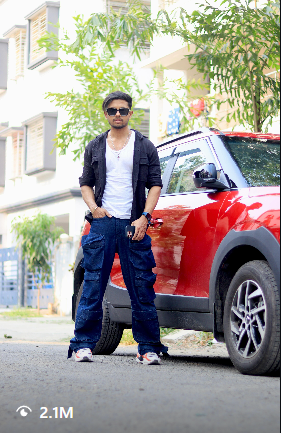
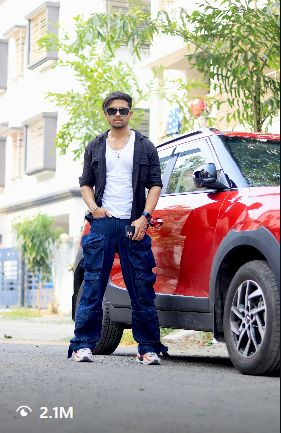
perf: accessibility ARIA labels, contrast upgrades, and cover image weight optimization

diff --git a/portfolio/src/components/Contact.tsx b/portfolio/src/components/Contact.tsx
@@ -22,7 +22,7 @@ export default function Contact() {
                             <h3 className="text-3xl md:text-5xl font-light leading-snug">
                                 Ready to bring your <span className="font-semibold text-transparent bg-clip-text bg-gradient-to-r from-blue-400 to-emerald-400">ideas to life?</span>
                             </h3>
-                            <p className="text-xl text-white/50 font-light max-w-lg">
+                            <p className="text-xl text-neutral-100 font-light max-w-lg">
                                 Whether you have a specific project in mind or just want to explore possibilities, I'm always open to discussing new opportunities.
                             </p>
 
@@ -37,13 +37,31 @@ export default function Contact() {
                             </div>
 
                             <div className="pt-16 flex items-center space-x-6">
-                                <a href="https://www.linkedin.com/in/saptarshi-dutta-storytelling/" target="_blank" rel="noopener noreferrer" className="p-4 rounded-full bg-white/5 hover:bg-white/10 text-white/70 hover:text-white transition-all transform hover:scale-110">
+                                <a
+                                    href="https://www.linkedin.com/in/saptarshi-dutta-storytelling/"
+                                    target="_blank"
+                                    rel="noopener noreferrer"
+                                    aria-label="Visit Saptarshi's professional LinkedIn profile portfolio"
+                                    className="p-4 rounded-full bg-white/5 hover:bg-white/10 text-white hover:text-emerald-400 transition-all transform hover:scale-110"
+                                >
                                     <Linkedin className="w-6 h-6" />
                                 </a>
-                                <a href="https://www.instagram.com/fx_zicozzz" target="_blank" rel="noopener noreferrer" className="p-4 rounded-full bg-white/5 hover:bg-white/10 text-white/70 hover:text-white transition-all transform hover:scale-110">
+                                <a
+                                    href="https://www.instagram.com/fx_zicozzz"
+                                    target="_blank"
+                                    rel="noopener noreferrer"
+                                    aria-label="Visit Saptarshi's Instagram profile"
+                                    className="p-4 rounded-full bg-white/5 hover:bg-white/10 text-white hover:text-emerald-400 transition-all transform hover:scale-110"
+                                >
                                     <Instagram className="w-6 h-6" />
                                 </a>
-                                <a href="/Saptarshi_Dutta_Resume_2026.pdf" target="_blank" rel="noopener noreferrer" className="p-4 rounded-full bg-white/5 hover:bg-white/10 text-white/70 hover:text-white transition-all transform hover:scale-110">
+                                <a
+                                    href="/Saptarshi_Dutta_Resume_2026.pdf"
+                                    target="_blank"
+                                    rel="noopener noreferrer"
+                                    aria-label="View Saptarshi's Resume PDF"
+                                    className="p-4 rounded-full bg-white/5 hover:bg-white/10 text-white hover:text-emerald-400 transition-all transform hover:scale-110"
+                                >
                                     <FileText className="w-6 h-6" />
                                 </a>
                             </div>

diff --git a/portfolio/src/components/BrandLandingPage.tsx b/portfolio/src/components/BrandLandingPage.tsx
@@ -92,6 +92,8 @@ function VideoProofCard({ card, idx }: { card: typeof PROOF_CARDS[0], idx: numbe
                 loop
                 playsInline={true}
                 disablePictureInPicture
+                width={260}
+                height={462}
                 className="absolute inset-0 w-full h-full object-cover opacity-60 group-hover:opacity-85 transition-opacity duration-500 z-0 pointer-events-none"
             />
             {/* Dark Overlay Gradient */}
@@ -100,6 +102,7 @@ function VideoProofCard({ card, idx }: { card: typeof PROOF_CARDS[0], idx: numbe
             {/* Mute button on top-right */}
             <button
                 onClick={toggleMute}
+                aria-label="Toggle video audio playback"
                 className="absolute top-4 right-4 z-20 p-2 rounded-full bg-black/40 hover:bg-black/70 border border-white/10 text-white transition-all hover:scale-105"
             >
                 {isMuted ? <VolumeX className="w-3.5 h-3.5 text-white/70" /> : <Volume2 className="w-3.5 h-3.5 text-emerald-400" />}
@@ -198,7 +201,7 @@ export default function BrandLandingPage() {
                         initial={{ opacity: 0, y: 20 }}
                         animate={{ opacity: 1, y: 0 }}
                         transition={{ duration: 0.8, delay: 0.2 }}
-                        className="text-lg md:text-2xl text-zinc-400 font-light max-w-3xl mx-auto leading-relaxed break-words"
+                        className="text-lg md:text-2xl text-zinc-100 font-light max-w-3xl mx-auto leading-relaxed break-words"
                     >
                         Orchestrating 5.2M+ organic views for national brands by bridging consumer behavioral psychology with high-velocity internal production.
                     </motion.p>
@@ -218,15 +221,15 @@ export default function BrandLandingPage() {
                     className="grid grid-cols-1 md:grid-cols-3 gap-6 font-mono text-xs tracking-wider"
                 >
                     <div className="border border-white/5 bg-zinc-950/40 rounded-2xl flex flex-col items-start gap-1 p-4 sm:flex-row sm:items-center sm:justify-between sm:p-5 group hover:border-emerald-500/20 transition-all duration-300">
-                        <span className="text-zinc-500">REACH</span>
+                        <span className="text-zinc-300">REACH</span>
                         <span className="text-emerald-400 font-bold">5.2M+ Organic Reach Orchestrated</span>
                     </div>
                     <div className="border border-white/5 bg-zinc-950/40 rounded-2xl flex flex-col items-start gap-1 p-4 sm:flex-row sm:items-center sm:justify-between sm:p-5 group hover:border-emerald-500/20 transition-all duration-300">
-                        <span className="text-zinc-500">PIPELINE</span>
+                        <span className="text-zinc-300">PIPELINE</span>
                         <span className="text-emerald-400 font-bold">100% In-House Pipeline Control</span>
                     </div>
                     <div className="border border-white/5 bg-zinc-950/40 rounded-2xl flex flex-col items-start gap-1 p-4 sm:flex-row sm:items-center sm:justify-between sm:p-5 group hover:border-emerald-500/20 transition-all duration-300">
-                        <span className="text-zinc-500">EXECUTION</span>
+                        <span className="text-zinc-300">EXECUTION</span>
                         <span className="text-emerald-400 font-bold">Zero Campaign Friction</span>
                     </div>
                 </motion.div>
@@ -367,7 +370,7 @@ export default function BrandLandingPage() {
                                     <h3 className="text-xl md:text-2xl font-serif font-bold text-white mt-4 group-hover:text-emerald-400 transition-colors duration-300">
                                         {item.title}
                                     </h3>
-                                    <p className="text-zinc-400 text-sm md:text-base font-light leading-relaxed mt-3 break-words">
+                                    <p className="text-zinc-100 text-sm md:text-base font-light leading-relaxed mt-3 break-words">
                                         {item.desc}
                                     </p>
                                 </div>

diff --git a/portfolio/src/components/About.tsx b/portfolio/src/components/About.tsx
@@ -47,7 +47,7 @@ export default function About() {
                     <div className="w-20 h-1 bg-white/20 rounded-full mb-12" />
                     
                     <div className="grid grid-cols-1 lg:grid-cols-2 gap-16 items-center">
-                        <div className="space-y-6 text-xl text-white/70 leading-relaxed font-light">
+                        <div className="space-y-6 text-xl text-neutral-100 leading-relaxed font-light">
                             <p>
                                 Hi, I'm <span className="text-white font-medium">Saptarshi</span>, a <span className="text-white font-medium">Visual Designer & Motion Creator</span> with over 4 years of experience seamlessly bridging storytelling with technology.
                             </p>
@@ -72,7 +72,7 @@ export default function About() {
                                                 <ExternalLink className="w-4 h-4 text-emerald-400 opacity-50 group-hover:opacity-100 transition-all" />
                                             )}
                                         </h3>
-                                        <p className="text-white/60 text-sm leading-relaxed">
+                                        <p className="text-neutral-100 text-sm leading-relaxed">
                                             {feature.description}
                                         </p>
                                     </>

diff --git a/portfolio/src/components/StickyLinkedIn.tsx b/portfolio/src/components/StickyLinkedIn.tsx
@@ -9,6 +9,7 @@ export default function StickyLinkedIn() {
             href="https://www.linkedin.com/in/saptarshi-dutta-storytelling/" 
             target="_blank" 
             rel="noopener noreferrer"
+            aria-label="Visit Saptarshi's professional LinkedIn profile portfolio"
             className="fixed bottom-6 right-6 z-[100] group flex items-center bg-[#0a66c2] hover:bg-[#004182] text-white px-4 py-3 rounded-full shadow-2xl shadow-blue-500/20 transition-all duration-300 hover:scale-105 hover:-translate-y-1"
         >
             <Linkedin className="w-5 h-5 mr-0 group-hover:mr-2 transition-all duration-300" />